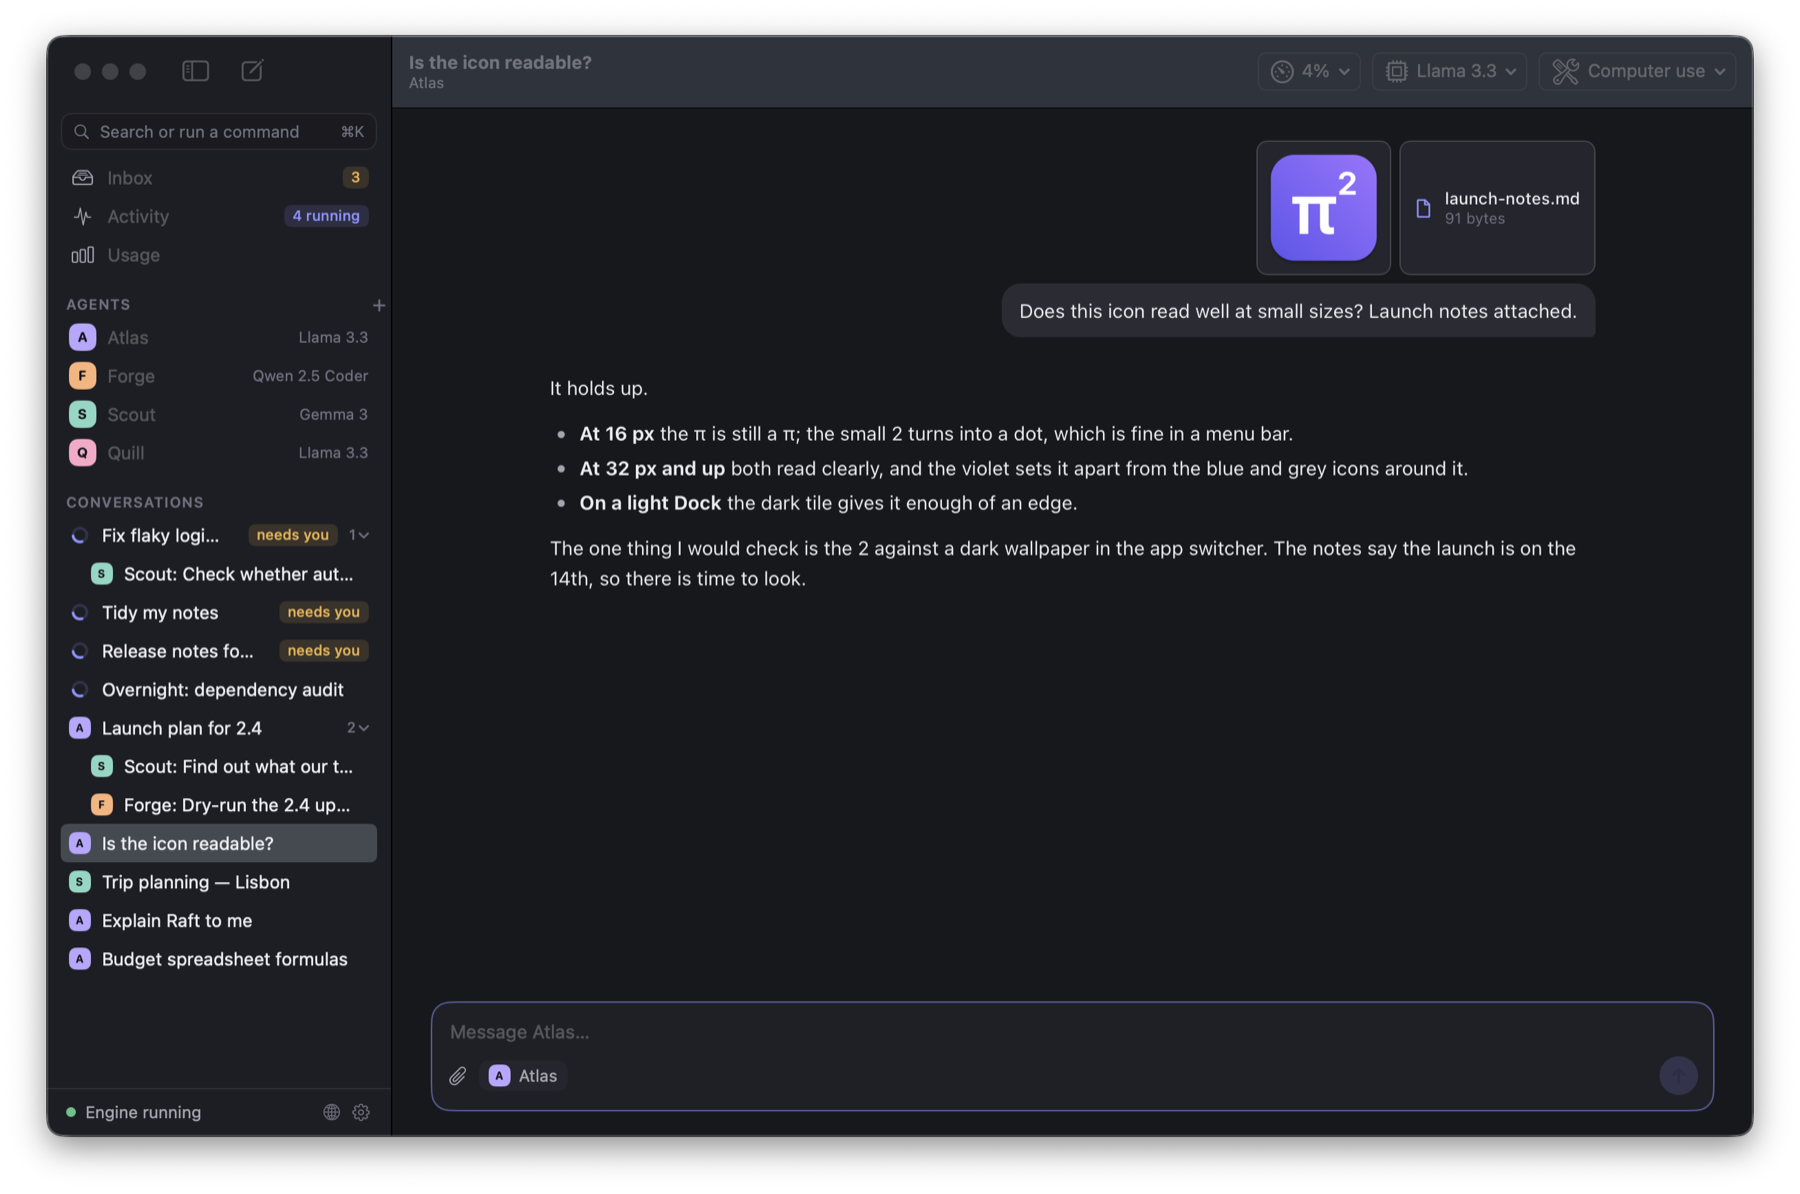
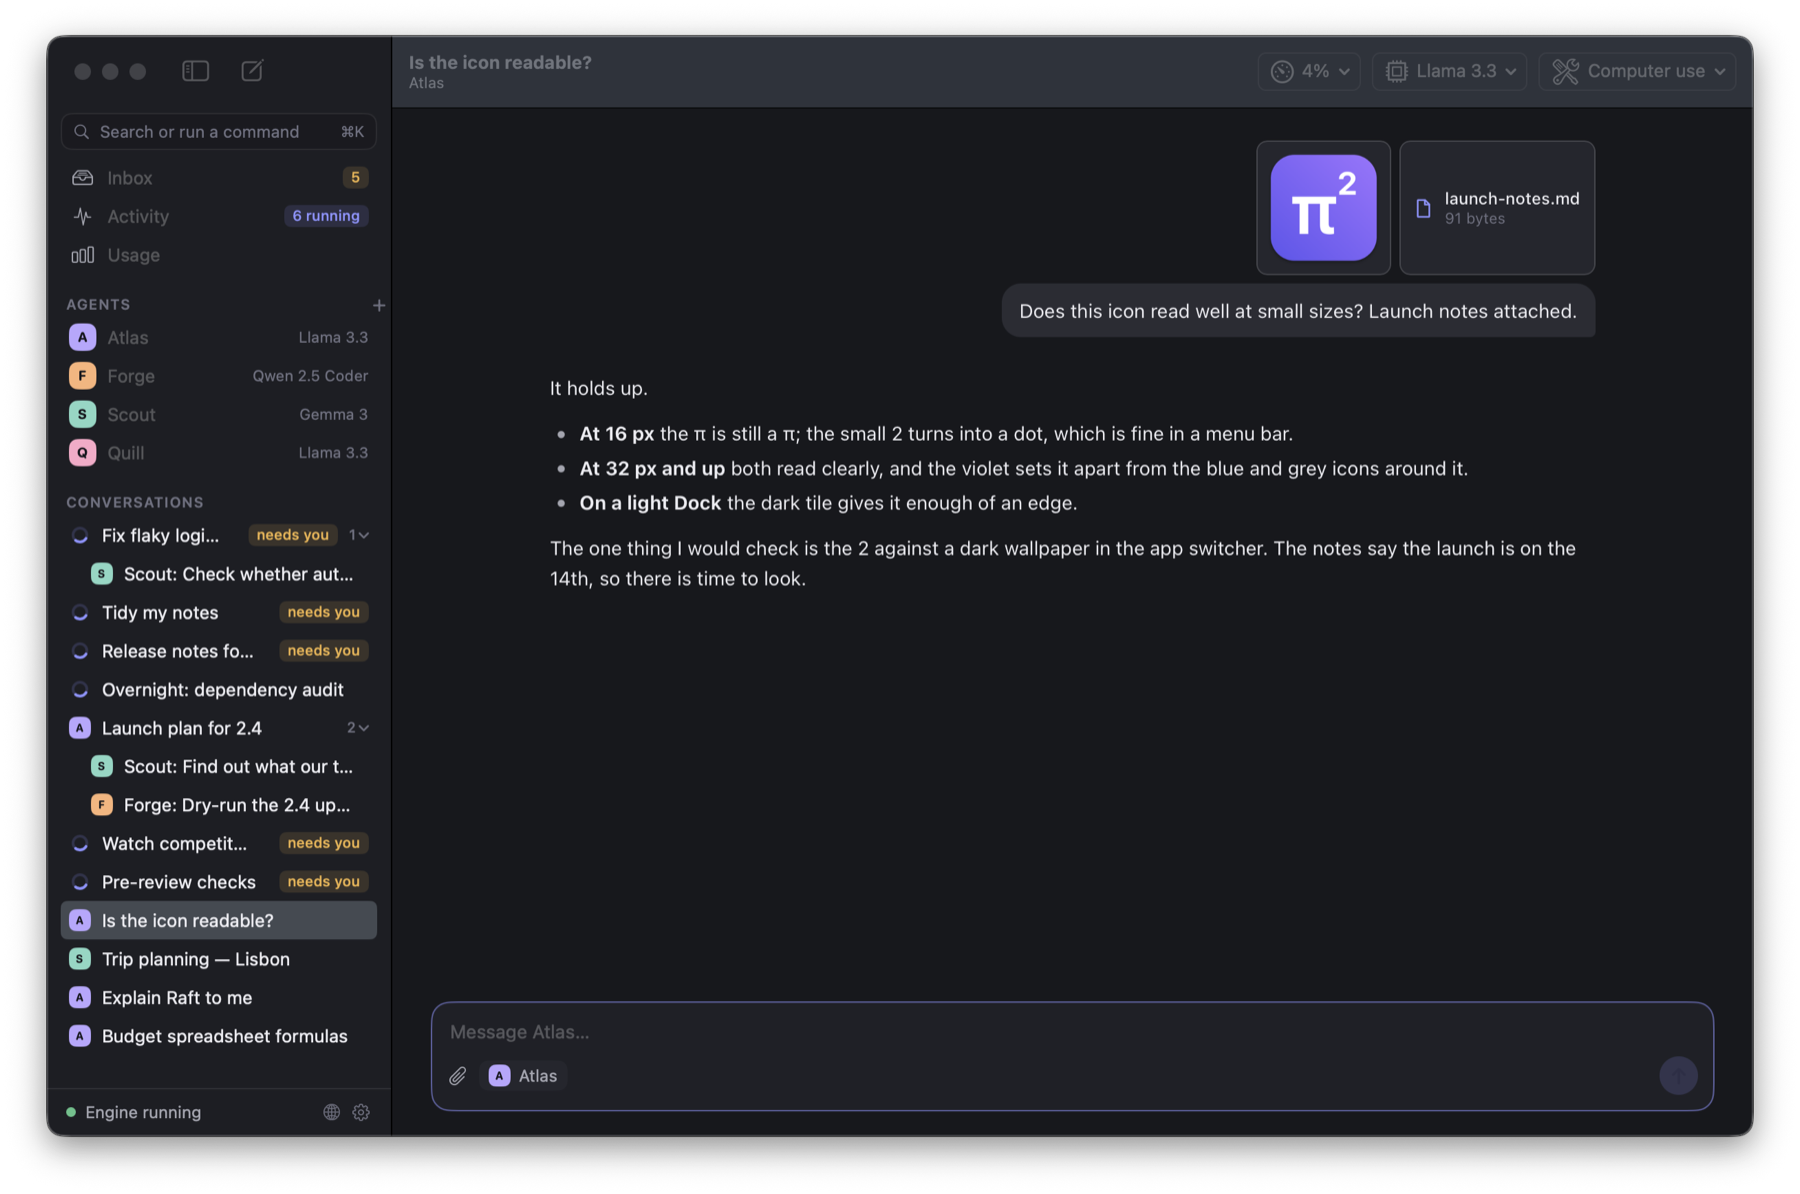
Describe command rules and agent-set schedules; retake the pictures
- README and changelog cover command rules, schedules agents set for
  themselves, and the declined-step wording.
- Pictures retaken with the new approval choice, a schedule request in
  the Inbox and an agent-set schedule in Activity.
- The rules footer in agent settings is three sentences, not a wall.

Changed region(s): [[0.0311, 0.6817, 0.2178, 0.8987]]

diff --git a/app/Sources/pi2/AgentViews.swift b/app/Sources/pi2/AgentViews.swift
@@ -387,11 +387,9 @@ struct CommandRulesSection: View {
     }
 
     private var footer: String {
-        var text = "A rule covers commands that start with its words, in that folder only, whatever follows the words: “git status” also covers “git status -sb”, but not “git push” or “git -C other status”. "
-        text += "Commands joined by &&, ||, ; or | run without asking only when a rule covers each of them. "
-        text += "Anything more complicated still asks: a variable or $( ), writing to a file with >, cd, sudo, running in the background, or another folder. "
-        text += "Rules that would let the agent run anything, such as bash, python3, git or rm on their own, cannot be made. "
-        text += "Since a rule allows any options after its words, make one only for a command you would let the agent run with any options. "
+        var text = "A rule covers commands that start with its words, in that folder only: “git status” also covers “git status -sb”, but not “git push”. "
+        text += "It allows any options after its words, so make one only for a command you would let the agent run that way. "
+        text += "Anything more complicated still asks, and rules that would allow anything, such as bash or rm on their own, cannot be made. "
         if access != "ask" { text += "Rules only matter while tool access is “Ask first”. " }
         text += "Changes here apply at once, without Save."
         return text

diff --git a/README.md b/README.md
@@ -45,7 +45,11 @@ Agents can hand work to each other. Each handoff opens a sub-chat under the conv
 
 Tool access is set per conversation: off, read only, ask first, or full. With "ask first", anything that changes a file or runs a command waits for you. Approvals and questions from every conversation collect in one Inbox, and they are still there after a restart.
 
-<p align="center"><img src="docs/images/inbox.png" alt="The Inbox with a question and two approvals waiting" width="820"></p>
+<p align="center"><img src="docs/images/inbox.png" alt="The Inbox: a command, a schedule an agent wants to set, a question, and an app action, all waiting" width="820"></p>
+
+Being asked about every `git status` gets old, and switching approvals off for the whole shell gives too much away. So an approval for a command offers a third choice: allow commands that start the same way, for that agent in that folder, from now on. Anything more involved still asks: two commands joined together unless each is covered, writing to a file, a variable, `sudo`. Rules that would allow anything, such as `bash` or `rm` on their own, cannot be made. You can review and remove rules in the agent's settings. [What a rule covers](docs/rules.md).
+
+<p align="center"><img src="docs/images/rules.png" alt="An approval for npm test with the choice to always allow npm test here" width="820"></p>
 
 ### Let an agent use your apps
 
@@ -72,9 +76,9 @@ Sign in with a subscription, add API keys for any of 40 or so providers, or add 
 
 ### Leave it running
 
-Schedules start conversations on their own: every morning, every hour, or once at a set time. Activity shows what is running and what is waiting for you. Closing the window leaves pi² in the menu bar, and the engine can keep going after you quit.
+Schedules start conversations on their own: every morning, every hour, or once at a set time. An agent you allow to can set one for itself when you ask it to check something later or regularly, and you approve each one before it exists. [What agents can schedule](docs/schedules.md). Activity shows what is running and what is waiting for you. Closing the window leaves pi² in the menu bar, and the engine can keep going after you quit.
 
-<p align="center"><img src="docs/images/activity.png" alt="Activity: running conversations and two schedules" width="820"></p>
+<p align="center"><img src="docs/images/activity.png" alt="Activity: running conversations and three schedules, one of them set by an agent" width="820"></p>
 
 ### Know what it costs
 
@@ -175,7 +179,8 @@ To report a security problem, see [SECURITY.md](SECURITY.md).
 - [Browser](docs/browser.md): the agents' own browser, what it asks about, and what it will not do.
 - [Attachments](docs/attachments.md): what can be pasted or attached to a message, and the limits.
 - [Transcript](docs/transcript.md): how the conversation page is built, and how it is kept from running anything a model writes.
-- [Task list](docs/plan.md), [project instructions and memory](docs/knowledge.md), [look tools](docs/look.md), [plan limits](docs/limits.md).
+- [Task list](docs/plan.md), [project instructions and memory](docs/knowledge.md), [look tools](docs/look.md), [plan limits](docs/limits.md), [documents](docs/documents.md).
+- [Command rules](docs/rules.md) and [schedules agents set](docs/schedules.md): what each allows, and what always asks.
 - [Development](docs/development.md): building, testing, and the layout of the code.
 - [Changelog](CHANGELOG.md)
 - [The original plan and mockups](docs/design/PLAN.md)

diff --git a/CHANGELOG.md b/CHANGELOG.md
@@ -6,6 +6,8 @@ What changed in each version, newest first.
 
 ### Added
 - **A new transcript.** The conversation is one page in the style of Claude Code: answers as plain text with full Markdown, tool steps as single lines that open to their output or diff, approvals and questions where the agent stopped. A selection runs across prose, code and tool steps and copies as clean text. See [docs/transcript.md](docs/transcript.md).
+- **Command rules.** An approval for a shell command can allow commands that start the same way from then on, for that agent in that folder. Compound commands, writes to files, variables and anything else not plainly covered still ask, and rules that would allow anything cannot be made. Rules are listed in the agent's settings. See [docs/rules.md](docs/rules.md).
+- **Agents can schedule their own work.** Off by default per agent. Each schedule is approved by you before it is made, shows in Activity as set by the agent, and the agent can cancel only its own. See [docs/schedules.md](docs/schedules.md).
 - **Formatted documents.** An agent that may write files can write a Word, RTF, OpenDocument or HTML document from Markdown with `write_document`, with the same approval as any other write. See [docs/documents.md](docs/documents.md).
 - **Computer use.** An agent can see and work the apps you choose, one window at a time, in the background, asking before it acts. See [docs/computer-use.md](docs/computer-use.md).
 - **A browser of the agents' own.** An agent can open pages, search, read, click, type and upload in pi²'s own browser, which keeps its sign-ins apart from Safari and Chrome. You can watch and take over in the Browser window. See [docs/browser.md](docs/browser.md).
@@ -26,6 +28,7 @@ What changed in each version, newest first.
 - Usage names models as "Provider · Model".
 
 ### Fixed
+- A step you declined read "Ran … Failed" in the conversation. It is now crossed out and marked as declined.
 - Switching on hand-offs, reference files, computer use or extra tools for an agent did nothing in conversations it already had. They now pick up the change at their next message, and lose an ability that was switched off.
 - The app did not build with Xcode 26 (Swift 6.3).
 - An endpoint saved without a key, the usual case for Ollama and LM Studio, failed with "No API key for provider".
